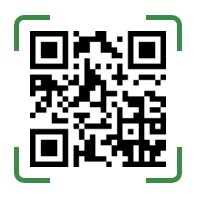
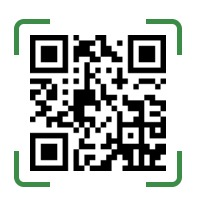
updating link and image for verification

Changed region(s): [[0.0609, 0.0588, 0.9442, 0.9118]]

diff --git a/src/pages/VerifyPages/VerifyMemberOne.jsx b/src/pages/VerifyPages/VerifyMemberOne.jsx
@@ -53,7 +53,7 @@ export default function VerifyMemberOne() {
         <img className="mb-5" src={img} alt="veriff scan image" />
         <hr />
         <button className="py-2 px-8 bg-green-500 rounded-md text-white font-bold mt-5">
-          <a href="https://veriff.me/s/9pDVilP81">Verify Me</a>
+          <a href="https://veriff.me/s/SlAhKFjPX">Verify Me</a>
         </button>
       </div>
 
